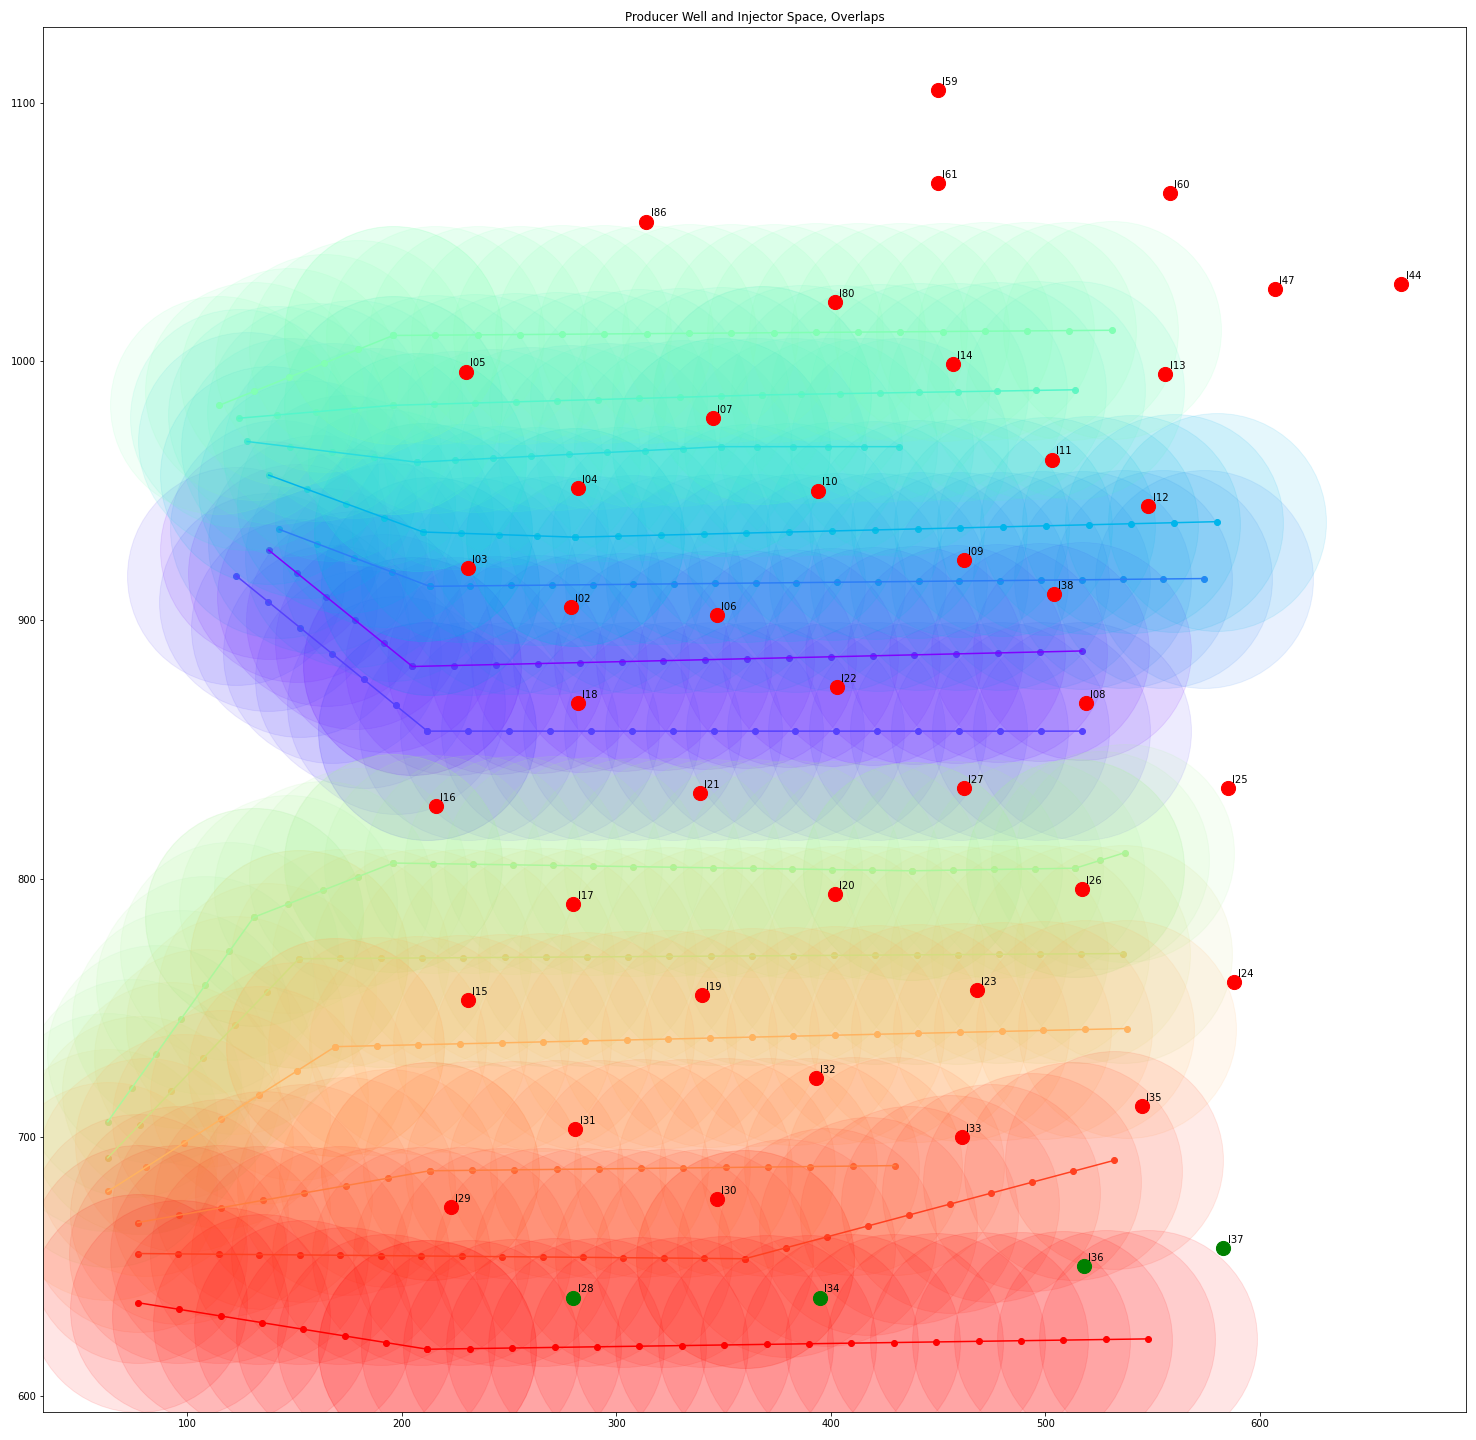
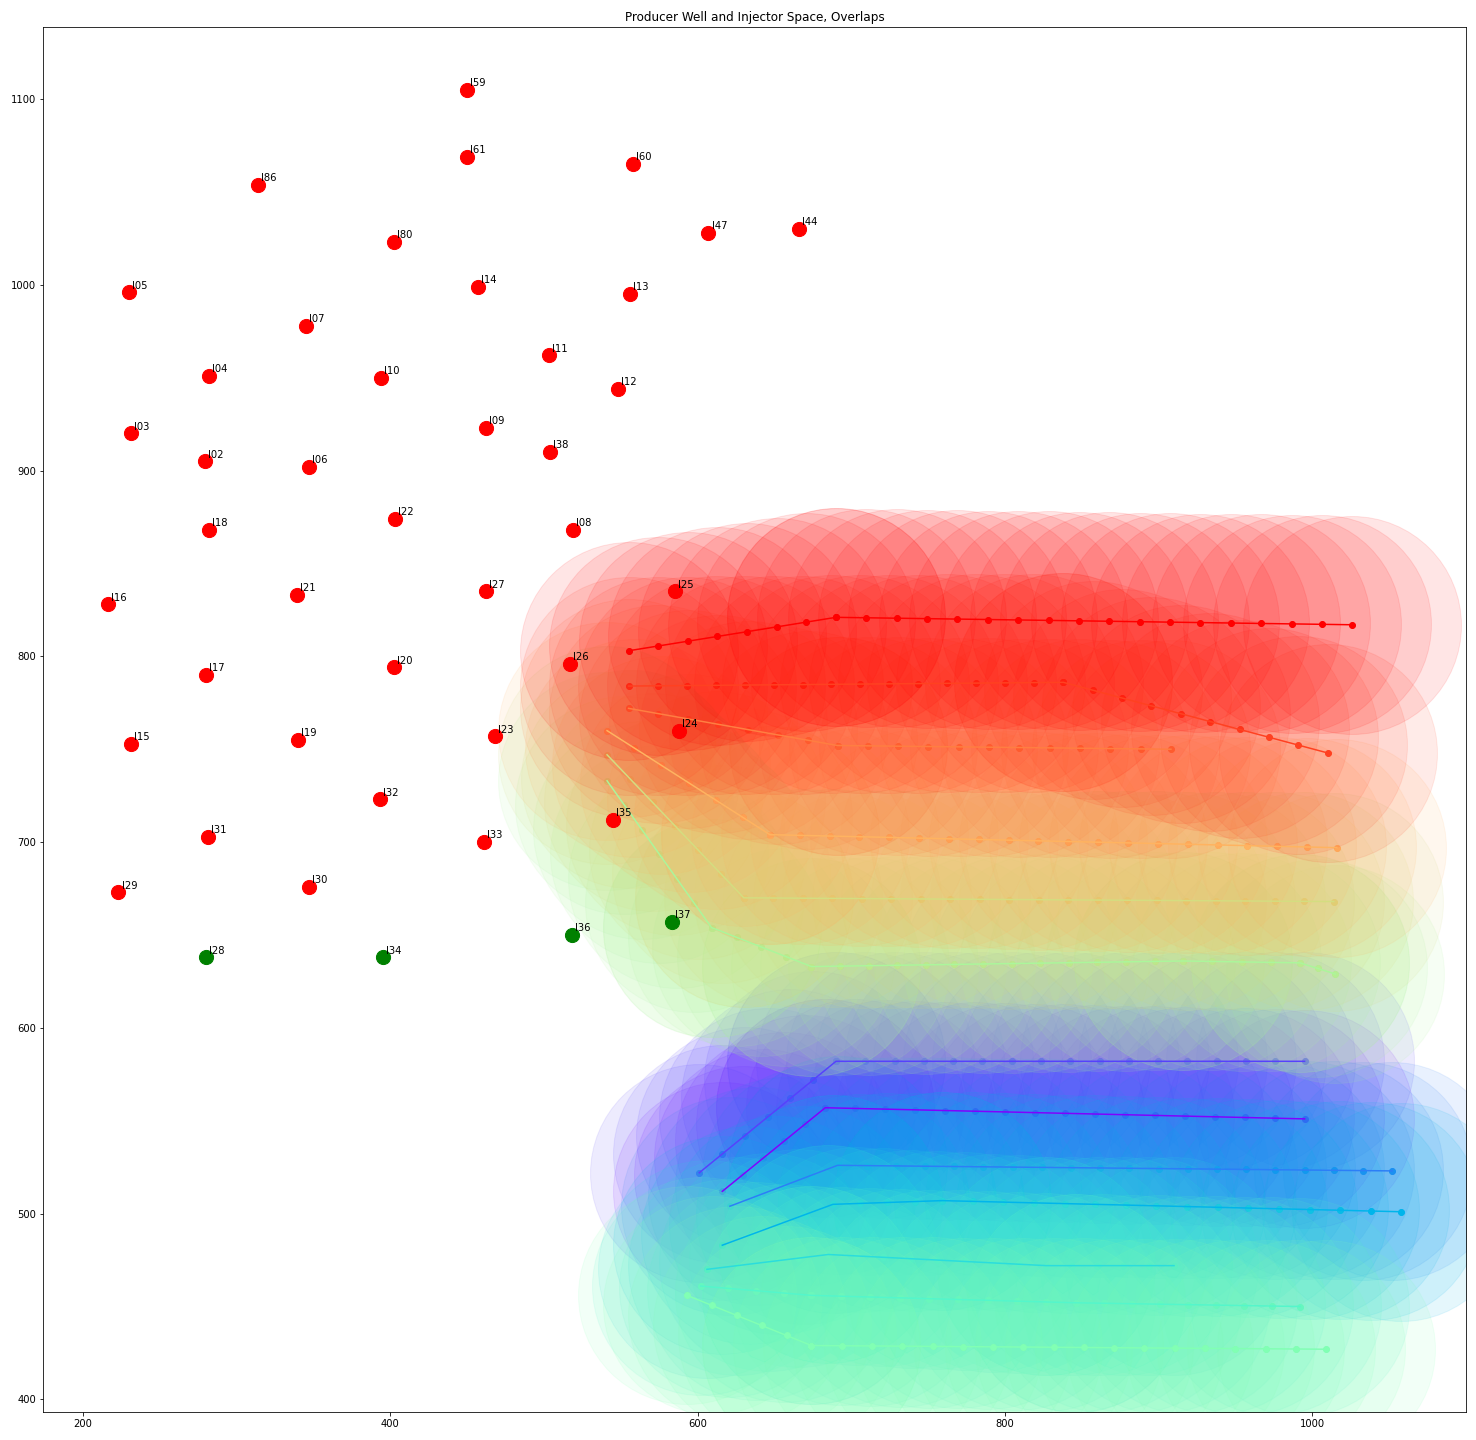
S3 Post-Detection, Candidate Selection Modularization

diff --git a/pipeline/S3_detection_aggregation.py b/pipeline/S3_detection_aggregation.py
@@ -3,7 +3,7 @@
 # @Email:  rijshouray@gmail.com
 # @Filename: approach_alternative.py
 # @Last modified by:   Ray
-# @Last modified time: 20-Apr-2021 15:04:63:631  GMT-0600
+# @Last modified time: 20-Apr-2021 16:04:04:048  GMT-0600
 # @License: [Private IP]
 
 import ast
@@ -102,8 +102,8 @@ def _AGGREGATION():
 
 
 FINALE = _accessories.retrieve_local_data_file('Data/combined_ipc_engineered_phys.csv')
-PRO_PAD_KEYS = _accessories.retrieve_local_data_file('Data/INJECTION_[Well, Pad].pkl')
-INJ_PAD_KEYS = _accessories.retrieve_local_data_file('Data/PRODUCTION_[Well, Pad].pkl')
+INJ_PAD_KEYS = _accessories.retrieve_local_data_file('Data/INJECTION_[Well, Pad].pkl')
+PRO_PAD_KEYS = _accessories.retrieve_local_data_file('Data/PRODUCTION_[Well, Pad].pkl')
 
 available_pads_transformed = ['A', 'B']
 available_pwells_transformed = [k for k, v in PRO_PAD_KEYS.items() if v in available_pads_transformed]
@@ -468,34 +468,6 @@ def specialized_anomaly_detection(FINALE):
     return anom_original_merged
 
 
-_ = """
-#######################################################################################################################
-#############################################   MINOR DATA PRE-PROCESSING  ############################################
-#######################################################################################################################
-"""
-
-FINALE['PRO_Pad'] = FINALE['PRO_Well'].apply(lambda x: PRO_PAD_KEYS.get(x))
-FINALE = FINALE.dropna(subset=['PRO_Well']).reset_index(drop=True)
-
-FINALE = filter_negatives(FINALE, FINALE.select_dtypes(float), out=True)
-# FINALE.drop(FINALE.columns[0], axis=1, inplace=True)
-
-_ = """
-#######################################################################################################################
-################################################   ANOMALY DETECTION   ################################################
-#######################################################################################################################
-"""
-FINALE = specialized_anomaly_detection(FINALE)
-
-os.system('say finished anomaly detection')
-
-_ = """
-#######################################################################################################################
-########################################   INJECTOR > RELATIVE REPRESENTATION   #######################################
-#######################################################################################################################
-"""
-
-
 def get_injector_coordinates():
     INJ_relcoords = {}
     INJ_relcoords = {'I02': '(757, 534)',
@@ -554,73 +526,66 @@ def get_injector_coordinates():
     return INJ_relcoords
 
 
-_ = """
-#######################################################################################################################
-########################################   PRODUCER > RELATIVE REPRESENTATION   #######################################
-#######################################################################################################################
-"""
-
-# NORTHING AND EASTING INPUTS
-# all_file_paths = [f for f in sorted(
-#     ['Data/Coordinates/' + c for c in list(os.walk('Data/Coordinates'))[0][2]]) if '.txt' in f]
-# all_wells = list(FINALE['PRO_Well'].unique())
-# all_pads = list(FINALE['PRO_Pad'].unique())
-#
-# liner_bounds = pd.read_excel('Data/Coordinates/Liner Depths (measured depth).xlsx').infer_objects()
-#
-# all_files = {}
-# all_positions = {}
-# for file_path in all_file_paths:
-#     well_group = str([group for group in all_wells + ['I2'] if group in file_path][0])
-#     lines = open(file_path, 'r', errors='ignore').readlines()
-#     all_files[file_path] = lines
-#
-#     try:
-#         data_line = [line.split('\n') for line in ''.join(
-#             map(str, lines)).split('\n\n') if 'Local Coordinates' in line][0]
-#         data_line = [line.split('\t') for line in data_line if line != '']
-#     except Exception:
-#         data_line = [line[0].split('\t') for line in data_line if line != '']
-#     data_start_index = sorted([data_line.index(line) for line in data_line if '0.0' in line[0]])[0]
-#     data_string = data_line[data_start_index:]
-#     data_string = [re.sub(' +', ' ', line[0].strip()) + '\n' for line in data_string]
-#     dummy_columns = ''.join(map(str, ['col_' + str(i) + ' ' for i in range(len(data_string[0].split(' ')))])) + '\n'
-#     str_obj_input = StringIO(dummy_columns + ''.join(map(str, data_string)))
-#     df = pd.read_csv(str_obj_input, sep=' ', error_bad_lines=False).dropna(1).infer_objects()
-#     df = df.select_dtypes(np.number)
-#     df.columns = ['Depth', 'Incl', 'Azim', 'SubSea_Depth', 'Vertical_Depth', 'Local_Northing', 'Local_Easting',
-#                   'UTM_Northing', 'UTM_Easting', 'Vertical_Section', 'Dogleg']
-#     # df = df[['UTM_Easting', 'UTM_Northing']]
-#
-#     start_bound = float(liner_bounds[liner_bounds['Well'] == well_group]['Liner Start (mD)'])
-#     end_bound = float(liner_bounds[liner_bounds['Well'] == well_group]['Liner End (mD)'])
-#     final_df = df[(df['Depth'] > start_bound) & (df['Depth'] < end_bound)]
-#     all_positions[well_group] = final_df.sort_values('Depth').reset_index(drop=True)
-#
-# fig, ax = plt.subplots(nrows=len(all_positions.keys()), ncols=2, figsize=(15, 40))
-# for well in all_positions.keys():
-#     group_df = all_positions[well]  # /all_positions[well].max()
-#     axes_1 = ax[list(all_positions.keys()).index(well)][0]
-#     axes_1.plot(group_df['UTM_Easting'], group_df['UTM_Northing'])
-#     axes_1.set_xlabel('UTM Easting')
-#     axes_1.set_ylabel('UTM Northing')
-#     axes_1.set_title(well + ' UTM Coordinates')
-#     # axes_1.set_ylim(1000000 + 3.963 * 10**6, 1000000 + 5.963 * 10**6)
-#
-#     axes_2 = ax[list(all_positions.keys()).index(well)][1]
-#     axes_2.plot(group_df['Local_Easting'], group_df['Local_Northing'])
-#     axes_1.set_xlabel('Local Easting')
-#     axes_1.set_xlabel('Local Northing')
-#     axes_2.set_title(well + ' Local Coordinates')
-#     axes_2.set_ylim(0, 225)
-# plt.tight_layout()
-# fig.suptitle('Coordinates Bounded by Provided Liner Depths XLSX File')
-# plt.savefig('Modeling Reference Files/Candidate Selection Images/provided_coordinate_plots.png',
-#             bbox_inches='tight')
-#
-
-
-def get_injector_coordinates():
+def get_producer_coordinates():
+    # NORTHING AND EASTING INPUTS
+    # all_file_paths = [f for f in sorted(
+    #     ['Data/Coordinates/' + c for c in list(os.walk('Data/Coordinates'))[0][2]]) if '.txt' in f]
+    # all_wells = list(FINALE['PRO_Well'].unique())
+    # all_pads = list(FINALE['PRO_Pad'].unique())
+    #
+    # liner_bounds = pd.read_excel('Data/Coordinates/Liner Depths (measured depth).xlsx').infer_objects()
+    #
+    # all_files = {}
+    # all_positions = {}
+    # for file_path in all_file_paths:
+    #     well_group = str([group for group in all_wells + ['I2'] if group in file_path][0])
+    #     lines = open(file_path, 'r', errors='ignore').readlines()
+    #     all_files[file_path] = lines
+    #
+    #     try:
+    #         data_line = [line.split('\n') for line in ''.join(
+    #             map(str, lines)).split('\n\n') if 'Local Coordinates' in line][0]
+    #         data_line = [line.split('\t') for line in data_line if line != '']
+    #     except Exception:
+    #         data_line = [line[0].split('\t') for line in data_line if line != '']
+    #     data_start_index = sorted([data_line.index(line) for line in data_line if '0.0' in line[0]])[0]
+    #     data_string = data_line[data_start_index:]
+    #     data_string = [re.sub(' +', ' ', line[0].strip()) + '\n' for line in data_string]
+    #     dummy_columns = ''.join(map(str, ['col_' + str(i) + ' '
+    #                                       for i in range(len(data_string[0].split(' ')))])) + '\n'
+    #     str_obj_input = StringIO(dummy_columns + ''.join(map(str, data_string)))
+    #     df = pd.read_csv(str_obj_input, sep=' ', error_bad_lines=False).dropna(1).infer_objects()
+    #     df = df.select_dtypes(np.number)
+    #     df.columns = ['Depth', 'Incl', 'Azim', 'SubSea_Depth', 'Vertical_Depth', 'Local_Northing', 'Local_Easting',
+    #                   'UTM_Northing', 'UTM_Easting', 'Vertical_Section', 'Dogleg']
+    #     # df = df[['UTM_Easting', 'UTM_Northing']]
+    #
+    #     start_bound = float(liner_bounds[liner_bounds['Well'] == well_group]['Liner Start (mD)'])
+    #     end_bound = float(liner_bounds[liner_bounds['Well'] == well_group]['Liner End (mD)'])
+    #     final_df = df[(df['Depth'] > start_bound) & (df['Depth'] < end_bound)]
+    #     all_positions[well_group] = final_df.sort_values('Depth').reset_index(drop=True)
+    #
+    # fig, ax = plt.subplots(nrows=len(all_positions.keys()), ncols=2, figsize=(15, 40))
+    # for well in all_positions.keys():
+    #     group_df = all_positions[well]  # /all_positions[well].max()
+    #     axes_1 = ax[list(all_positions.keys()).index(well)][0]
+    #     axes_1.plot(group_df['UTM_Easting'], group_df['UTM_Northing'])
+    #     axes_1.set_xlabel('UTM Easting')
+    #     axes_1.set_ylabel('UTM Northing')
+    #     axes_1.set_title(well + ' UTM Coordinates')
+    #     # axes_1.set_ylim(1000000 + 3.963 * 10**6, 1000000 + 5.963 * 10**6)
+    #
+    #     axes_2 = ax[list(all_positions.keys()).index(well)][1]
+    #     axes_2.plot(group_df['Local_Easting'], group_df['Local_Northing'])
+    #     axes_1.set_xlabel('Local Easting')
+    #     axes_1.set_xlabel('Local Northing')
+    #     axes_2.set_title(well + ' Local Coordinates')
+    #     axes_2.set_ylim(0, 225)
+    # plt.tight_layout()
+    # fig.suptitle('Coordinates Bounded by Provided Liner Depths XLSX File')
+    # plt.savefig('Modeling Reference Files/Candidate Selection Images/provided_coordinate_plots.png',
+    #             bbox_inches='tight')
+    #
     PRO_relcoords = {}
     PRO_relcoords = {'AP2': '(616, 512) <> (683, 557) <> (995, 551)',
                      'AP3': '(601, 522) <> (690, 582) <> (995, 582)',
@@ -638,29 +603,98 @@ def get_injector_coordinates():
     # Get relative position inputs
     # for well in [pw for pw in PRO_PAD_KEYS.keys() if 'A' in pw or 'B' in pw]:
     #     PRO_relcoords[well] = input(prompt='Please enter coordinates for producer {}'.format(well))
-    # Re-format relative positions
+    # k, v = list(PRO_relcoords.items())[0]
     for k, v in PRO_relcoords.items():
+        # Re-format relative positions
         # Parsing
         PRO_relcoords[k] = [chunk.strip() for chunk in v.split('<>')]
         # String to tuple
         PRO_relcoords[k] = [eval(chunk) for chunk in PRO_relcoords[k]]
-    # Re-scale relative positions (cartesian, not jS, system)
-    for k, v in PRO_relcoords.items():
+
+        # Re-scale relative positions (cartesian, not jS, system)
         transformed = []
         for coordinate in PRO_relcoords[k]:
             transformed.append((coordinate[0] - x_delta, y_delta - coordinate[1]))
-        PRO_relcoords[k] = transformed
-    # Find n points connecting the points
-    PRO_finalcoords = {}
-    for k, v in PRO_relcoords.items():
+
+        # Find n points connecting the points
         discrete_links = []
-        for coordinate_i in range(len(PRO_relcoords[k]) - 1):
-            c1 = PRO_relcoords[k][coordinate_i]
-            c2 = PRO_relcoords[k][coordinate_i + 1]
+        for coordinate_i in range(len(transformed) - 1):
+            c1 = transformed[coordinate_i]
+            c2 = transformed[coordinate_i + 1]
             num_points = int(euclidean_2d_distance(c1, c2) / focal_period)
             discrete_ind = intermediates(c1, c2, nb_points=num_points)
             discrete_links.append(discrete_ind)
-        PRO_finalcoords[k] = list(chain.from_iterable(discrete_links))
+        PRO_relcoords[k] = list(chain.from_iterable(discrete_links))
+
+    return PRO_relcoords
+
+
+def get_all_candidates(injection_coordinates, production_coordinates, save=True, plot=plot_geo):
+    candidates_by_prodpad = {}
+    reports_by_prodpad = {}
+    for pad in available_pads_transformed:
+        candidates, report = injector_candidates(production_pad=pad,
+                                                 production_well=None,
+                                                 pro_well_pad_relationship=PRO_PAD_KEYS,
+                                                 injector_coordinates=injection_coordinates,
+                                                 production_coordinates=production_coordinates,
+                                                 relative_radius=50)
+        candidates_by_prodpad[pad] = candidates
+        reports_by_prodpad[pad] = report
+
+    candidates_by_prodwell = {}
+    reports_by_prodwell = {}
+    for pwell in available_pwells_transformed:
+        candidates, report = injector_candidates(production_pad=None,
+                                                 production_well=pwell,
+                                                 pro_well_pad_relationship=None,
+                                                 injector_coordinates=injection_coordinates,
+                                                 production_coordinates=production_coordinates,
+                                                 relative_radius=50)
+        candidates_by_prodwell[pwell] = candidates
+        reports_by_prodwell[pwell] = report
+
+    if(plot_geo):
+        plot_geo_candidates(candidates_by_prodwell, 'BP4', production_coordinates, injection_coordinates)
+
+    with open('Data/PAD_Candidates.pkl', 'wb') as fp:
+        pickle.dump(candidates_by_prodpad, fp, protocol=pickle.HIGHEST_PROTOCOL)
+
+    with open('Data/WELL_Candidates.pkl', 'wb') as fp:
+        pickle.dump(candidates_by_prodwell, fp, protocol=pickle.HIGHEST_PROTOCOL)
+
+    return candidates_by_prodpad, candidates_by_prodwell
+
+
+_ = """
+#######################################################################################################################
+#############################################   MINOR DATA PRE-PROCESSING  ############################################
+#######################################################################################################################
+"""
+
+FINALE['PRO_Pad'] = FINALE['PRO_Well'].apply(lambda x: PRO_PAD_KEYS.get(x))
+FINALE = FINALE.dropna(subset=['PRO_Well']).reset_index(drop=True)
+
+FINALE = filter_negatives(FINALE, FINALE.select_dtypes(float), out=True)
+# FINALE.drop(FINALE.columns[0], axis=1, inplace=True)
+
+_ = """
+#######################################################################################################################
+################################################   ANOMALY DETECTION   ################################################
+#######################################################################################################################
+"""
+FINALE = specialized_anomaly_detection(FINALE)
+
+os.system('say finished anomaly detection')
+
+_ = """
+#######################################################################################################################
+###################################   INJECTOR, PRODUCER > RELATIVE REPRESENTATION   ##################################
+#######################################################################################################################
+"""
+
+INJ_relcoords = get_injector_coordinates()
+PRO_finalcoords = get_producer_coordinates()
 
 
 _ = """
@@ -669,40 +703,8 @@ _ = """
 #######################################################################################################################
 """
 
-candidates_by_prodpad = {}
-reports_by_prodpad = {}
-for pad in available_pads_transformed:
-    candidates, report = injector_candidates(production_pad=pad,
-                                             production_well=None,
-                                             pro_well_pad_relationship=PRO_PAD_KEYS,
-                                             injector_coordinates=INJ_relcoords,
-                                             production_coordinates=PRO_finalcoords,
-                                             relative_radius=50)
-    candidates_by_prodpad[pad] = candidates
-    reports_by_prodpad[pad] = report
+candidates_by_prodpad, candidates_by_prodwell = get_all_candidates(INJ_relcoords, PRO_finalcoords, save=True)
 
-candidates_by_prodwell = {}
-reports_by_prodwell = {}
-for pwell in available_pwells_transformed:
-    candidates, report = injector_candidates(production_pad=None,
-                                             production_well=pwell,
-                                             pro_well_pad_relationship=None,
-                                             injector_coordinates=INJ_relcoords,
-                                             production_coordinates=PRO_finalcoords,
-                                             relative_radius=50)
-    candidates_by_prodwell[pwell] = candidates
-    reports_by_prodwell[pwell] = report
-
-if(plot_geo):
-    plot_geo_candidates(candidates_by_prodwell, 'BP6', PRO_finalcoords, INJ_relcoords)
-
-with open('Data/candidates_by_prodpad.pkl', 'wb') as fp:
-    pickle.dump(candidates_by_prodpad, fp, protocol=pickle.HIGHEST_PROTOCOL)
-
-with open('Data/candidates_by_prodwell.pkl', 'wb') as fp:
-    pickle.dump(candidates_by_prodwell, fp, protocol=pickle.HIGHEST_PROTOCOL)
-
-os.system('say finished candidate selection')
 
 _ = """
 #######################################################################################################################
